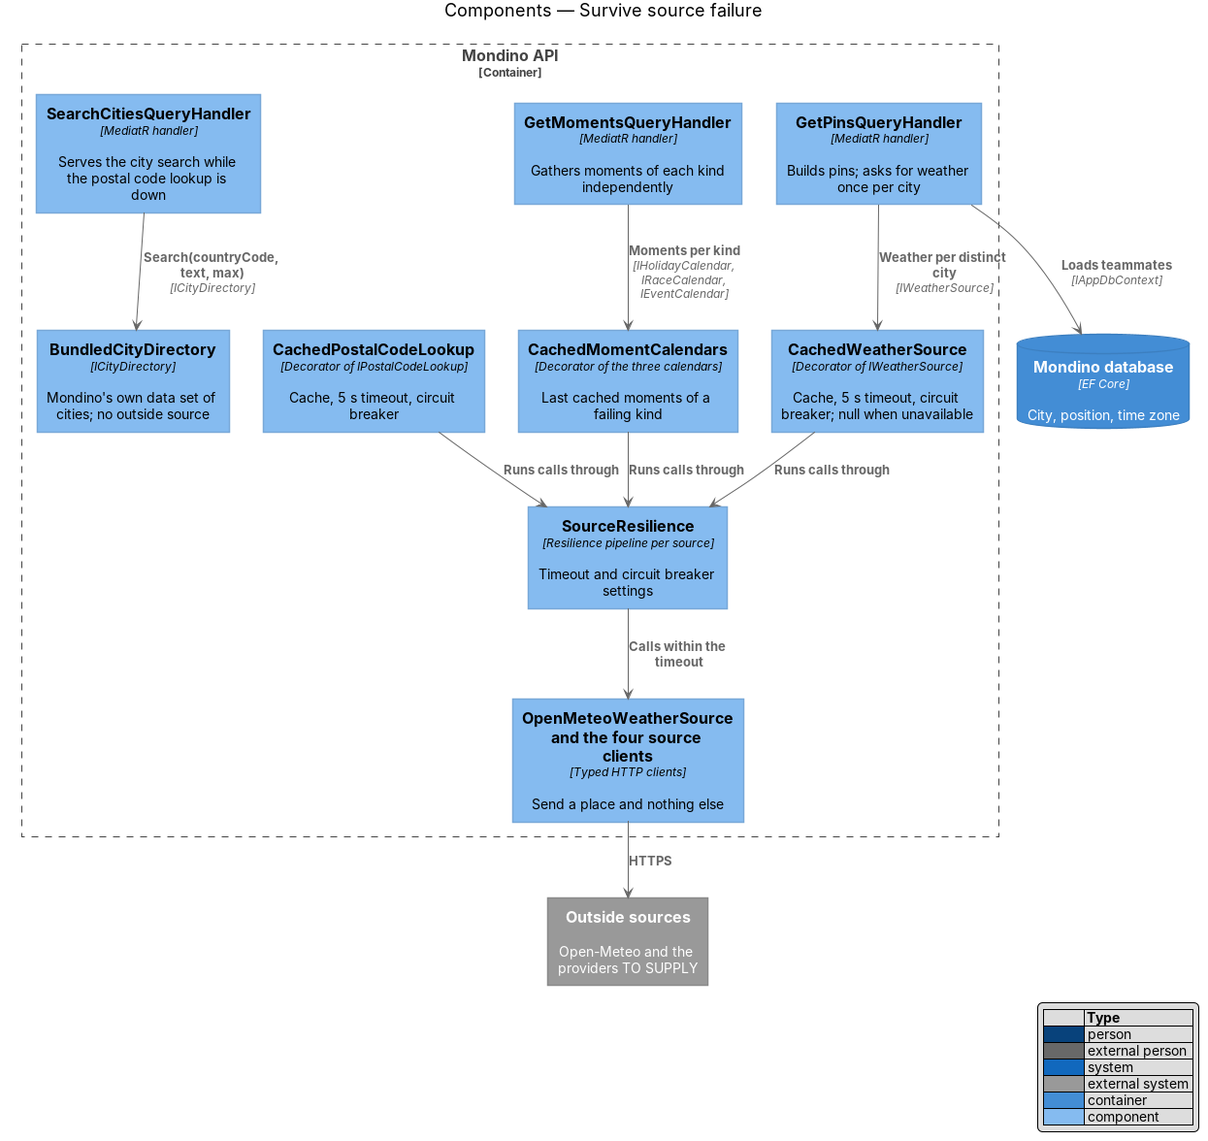
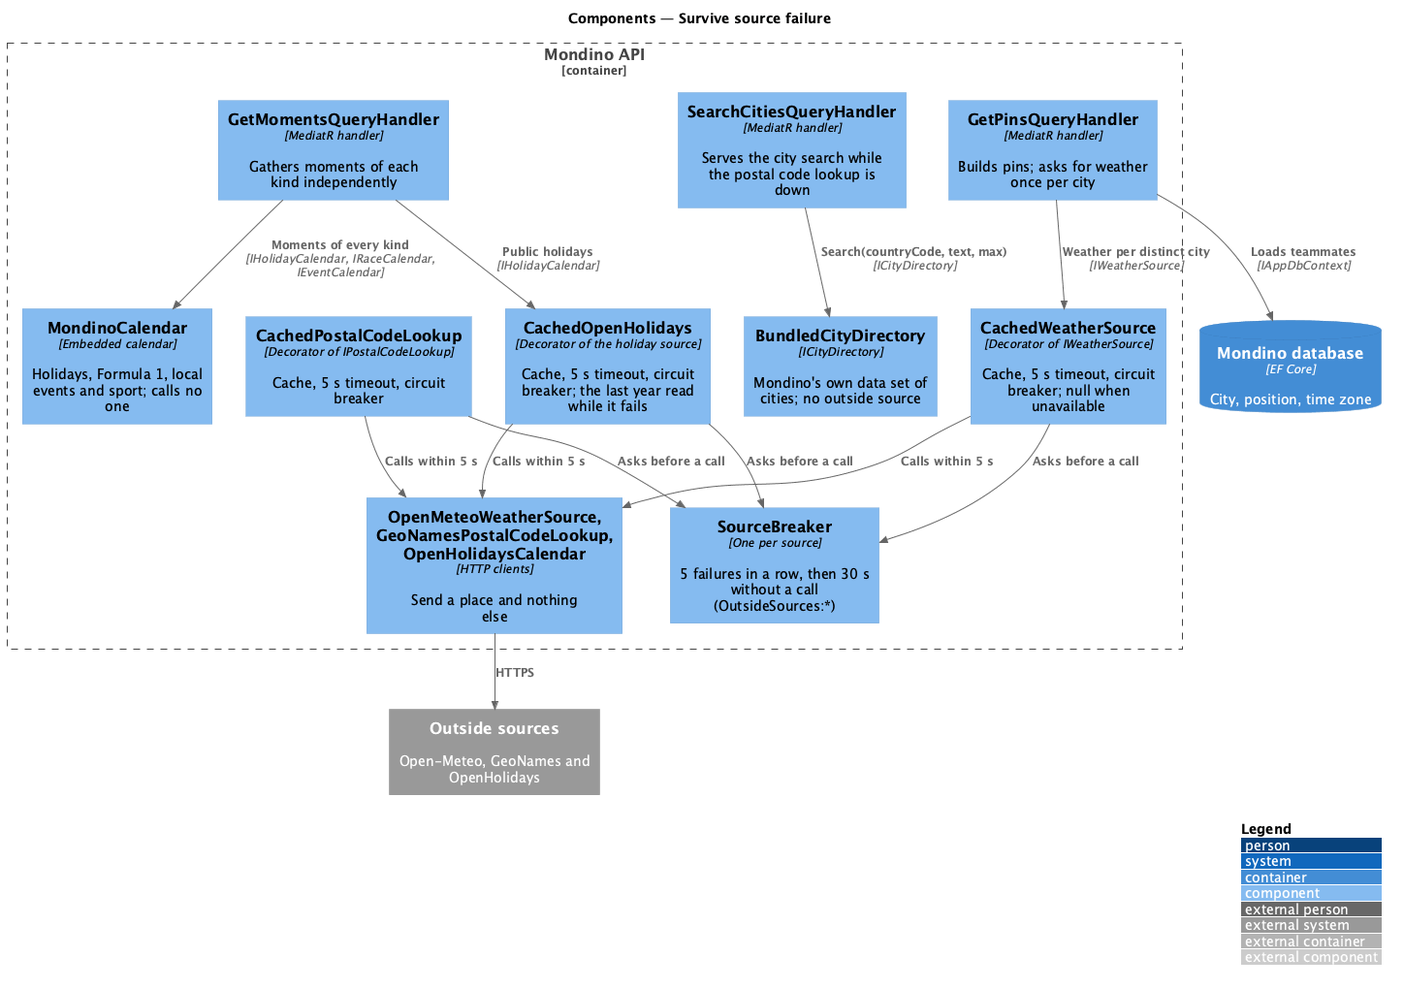
Decide the breaker, older answers and one deadline for outside sources
ADR 0026 makes the breaker one class with settings, gives weather up to
3 hours old and the last holidays read while a source fails, and shares a
6-second deadline between two sources asked in a row. The design, its
diagrams, the shared contracts, ADRs 0015 and 0019 and the deployment
settings are brought in line with what is built.

Changed region(s): [[0.0, 0.0, 1.0, 0.8814], [0.8546, 0.8206, 1.0, 1.0], [0.641, 0.4559, 0.702, 0.4863]]

diff --git a/docs/detailed-designs/platform/survive-source-failure/README.md b/docs/detailed-designs/platform/survive-source-failure/README.md
@@ -16,67 +16,79 @@ teammate's name, their team or anything that identifies them.
 The terms used below:
 
 - **outside source** — service outside Mondino that the backend calls for postal codes, weather or calendars
-- **caching decorator** — class that implements an outside source's interface, wraps the real client, and adds a cache, a timeout and a circuit breaker
+- **caching decorator** — class that wraps an outside source's client and adds a cache, a timeout and a circuit breaker
 - **circuit breaker** — guard that stops calls to a source that keeps failing, for a short interval, before trying again
+- **source deadline** — one 6-second limit shared by the outside sources a request asks one after another
 - **place** — a country and postal code, or a position, or a country and year
 - **city directory** — data set of cities, with their positions and time zones, that the backend holds itself
 
-The providers of the postal code source, the holiday calendar source, the race calendar source
-the event source and the email source are `<TO SUPPLY>`.
+The postal code source is GeoNames (ADR 0006), the weather source Open-Meteo (ADR 0015), the
+holiday source OpenHolidays beside Mondino's own calendar, which also holds Formula 1, local
+events and sport (ADR 0019), and the email source Postmark (ADR 0011). The breakers, the older
+answers given while a source fails and the source deadline are ADR 0026's.
 
 ## Description
 
 **Interfaces and clients.** Each outside source sits behind an interface in
 `Mondino.Application`: `IPostalCodeLookup`, `IWeatherSource`, `IHolidayCalendar`,
-`IRaceCalendar` and `IEventCalendar`. `Mondino.Infrastructure` holds one typed HTTP client per
-source: `PostalCodeLookupClient`, `OpenMeteoWeatherSource`, `HolidayCalendarClient`,
-`RaceCalendarClient` and `EventCalendarClient`. The `Mondino API` is the only caller; the
-browser calls no outside source (L2-050). `ISignInEmailSender`, behind which the email source
-sits, follows the same rule: `SignInEmailSender` calls it through `SourceResilience`, with the
-timeout and the circuit breaker and with no cache, since nothing it sends is an answer to keep
-(`sign-in`).
+`IRaceCalendar` and `IEventCalendar`. `Mondino.Infrastructure` holds one HTTP client per
+outside source: `GeoNamesPostalCodeLookup`, `OpenMeteoWeatherSource` and
+`OpenHolidaysCalendar`; `MondinoCalendar`, which answers `IRaceCalendar`, `IEventCalendar` and
+part of `IHolidayCalendar`, is embedded and calls nothing. The `Mondino API` is the only caller;
+the browser calls no outside source (L2-050). `ISignInEmailSender`, behind which the email
+source sits, follows the same rule: `PostmarkSignInEmailSender` calls it with the timeout and a
+`SourceBreaker` and with no cache, since nothing it sends is an answer to keep (`sign-in`).
 
-**Caching decorators.** Dependency injection registers each interface as its decorator, which
-wraps the client. Handlers see the interface only.
+**Caching decorators.** Dependency injection registers each interface as its decorator, or the
+calendar that uses it, which wraps the client. Handlers see the interface only.
 
 - **`CachedWeatherSource`** — decorates `IWeatherSource`. It rounds the position to two
   decimal places and uses the rounded position as the cache key, so two teammates in one city
-  share one entry and one call. An entry younger than 15 minutes is fresh and is returned
-  without a call. Otherwise it calls
-  `OpenMeteoWeatherSource` through `SourceResilience`. When the call gives no value, it
-  returns the cached `Weather` if that is under 3 hours old (`MaxAge`), and `null` otherwise.
-  It never returns a zero temperature in place of a missing one.
-- **`CachedPostalCodeLookup`** — decorates `IPostalCodeLookup`. The key is the normalised
-  `PostalCode`. A postal code's city does not change from hour to hour, so entries are kept
-  for a long interval, which is `<TO SUPPLY>`. When the source fails and no entry exists, the
+  share one entry and one call; concurrent reads of the city share the call in flight. An entry
+  younger than 15 minutes is fresh and is returned without a call. Otherwise, unless its
+  `SourceBreaker` is open, it calls `OpenMeteoWeatherSource` with a 5 s timeout. When there is
+  no value (an error, the timeout, or the breaker open), it returns the city's last good
+  `Weather` if that was read under 3 hours ago (`ServedFor`), and `null` otherwise. It never
+  returns a zero temperature in place of a missing one. A caller whose token is cancelled stops
+  waiting; the call goes on for the others.
+- **`CachedPostalCodeLookup`** — decorates `IPostalCodeLookup`. The key is the country and the
+  normalised `PostalCode`. A postal code's city does not change from hour to hour, so `Found` is
+  kept 30 days and `NotFound` 1 day (ADR 0006). When the source fails and no entry exists, the
   handler answers `postal_code_unavailable`, which is distinct from `postal_code_not_found`.
-- **`CachedMomentCalendars`** — decorates `IHolidayCalendar`, `IRaceCalendar` and
-  `IEventCalendar`. Each kind is fetched and cached on its own, keyed by its place (a country
-  and year, a year, or a city). When one calendar fails, the decorator returns the last cached
-  moments of that kind, and moments of the other kinds are unaffected.
+- **`CachedOpenHolidays`** — wraps `OpenHolidaysCalendar` for `HolidayCalendar`, which answers
+  `IHolidayCalendar` with Mondino's own holidays and the public ones. A country's year is fresh
+  for 24 hours. When the source fails, times out or its breaker is open, it gives the last year
+  it read, whatever its age; the year goes only for room. Formula 1, local events and sport come
+  from `MondinoCalendar` and never fail, so `MomentFinder` still gives every other kind, and a
+  calendar that throws gives nothing without failing the read.
 
-**`SourceResilience`** — one resilience pipeline per source, built with
-`Microsoft.Extensions.Resilience`. `ExecuteAsync` runs a call inside it and returns a
-`SourceAnswer<T>` with a `SourceOutcome` (`Success`, `Failure`, `Timeout`, `CircuitOpen`) and
-the value, if any. It does not throw for a failed source.
+**`SourceBreaker`** — the circuit breaker, one instance per source, held by its decorator
+(ADR 0026). It does not throw for a failed source.
 
-- **Timeout.** Each call is cancelled after 5 s.
-- **Circuit breaker.** After `FailuresBeforeBreak` failures the circuit opens for
-  `BreakDuration`, and calls return `CircuitOpen` at once without reaching the source. Both
-  values are `<TO SUPPLY>`.
-- **No queue.** The pipeline does not retry and does not queue. Calls to one source run with a
-  bounded concurrency, which is `<TO SUPPLY>`.
+- **Timeout.** Each call is cancelled after 5 s, and counts as a failure.
+- **Circuit breaker.** After `FailuresToOpen` failures in a row the breaker opens for
+  `BreakerOpenFor`, and the decorator answers at once without reaching the source. The values
+  are the settings `OutsideSources:FailuresToOpen` (5) and `OutsideSources:BreakerOpenFor`
+  (30 s); one success closes the count.
+- **No queue.** No call is retried and none is queued. One call per place is in flight at a
+  time, shared by every read of that place, and none while the breaker is open, so calls in
+  flight are bounded by the distinct places being read, each ending within 5 s.
 
-Time is read from `TimeProvider`, so tests advance a `FakeTimeProvider` and never sleep. The
-cache is `IMemoryCache` with a size limit; a cache shared between instances of the API depends
-on the hosting platform and is `<TO SUPPLY>`.
+**`SourceDeadline`** — a request that asks two sources one after another (the postal code
+lookup, then the weather at the city found: on Join, Create Team, a teammate's own lookup and
+saving a new location) starts one 6 s deadline before the first and passes it to the second,
+which waits only what is left. When it runs out the answer has no weather.
+
+Time is read from `TimeProvider`, so tests advance a `FakeTimeProvider` and never sleep. Each
+cache is held in memory by its decorator, with a bound on its entries; each instance of the API
+holds its own.
 
 **Joining while the postal code lookup is down (L2-049).**
 
 - **`ICityDirectory`** — interface in `Mondino.Application` over the city directory.
   `BundledCityDirectory` in `Mondino.Infrastructure` reads a data set shipped with the API, so
   it is not an outside source and cannot be down while the API answers. The data set is
-  `<TO SUPPLY>`.
+  `cities.tsv.gz`, embedded in the API (ADR 0006).
 - When a lookup on Join or Create Team is refused with `postal_code_unavailable`, the screen
   switches the postal code field off and shows "Your city" with "Postal code lookup is down
   right now, so pick your city instead. Your pin goes to its centre."
@@ -106,9 +118,12 @@ on the hosting platform and is `<TO SUPPLY>`.
   `WeatherState` is `Unavailable`; `WeatherState` is `NotShared` where the teammate does not
   share their weather and `Available` otherwise, so the browser can tell the two apart. The
   response succeeds in every case.
-- **`GetMomentsQueryHandler`** returns the moments `CachedMomentCalendars` has for each kind.
-- **A response waits at most 6 s on outside sources.** The calls for one request run
-  concurrently under one deadline of 5 s, so the request completes with what the backend has.
+- **`GetMomentsQueryHandler`** returns the moments `MomentFinder` finds for each city, from
+  every calendar at once; a calendar that fails gives its last cached moments or none, and the
+  other kinds are still given.
+- **A response waits at most 6 s on outside sources.** The calls for one request to one source
+  run concurrently, each within 5 s, and two sources asked one after another share the 6 s
+  `SourceDeadline`, so the request completes with what the backend has.
 - **The web app shows what it has.** Local time, status, offset and overlap are worked out in
   the browser from the pin's time zone and the clock, so they need no outside source. Where a
   pin's `weatherState` is `Unavailable`, `PinLabel` leaves the weather out, and `TeammatePanel`
@@ -161,9 +176,8 @@ on the hosting platform and is `<TO SUPPLY>`.
 |--------|---------|
 | Postal code source | country and postal code |
 | Open-Meteo | the city's position, rounded to two decimal places |
-| Holiday calendar source | country and year |
-| Race calendar source | year |
-| Event source | the city's place; the exact parameters depend on the provider, `<TO SUPPLY>` |
+| Holiday source (OpenHolidays) | country and year |
+| Mondino's own calendar (races, events, sport) | nothing: it is embedded and calls no one |
 | Email source | the address a sign-in link is sent to, and the link; no name, no team and no city |
 
 Each client's method takes only those values, so a name, a team, a teammate id or a session is
@@ -203,25 +217,26 @@ source once stored.
 ### Components
 
 `GetPinsQueryHandler` and `GetMomentsQueryHandler` reach the sources through the caching
-decorators. Each decorator runs its calls through `SourceResilience`, which calls the typed
-clients within the timeout.
+decorators. Each decorator asks its `SourceBreaker` before a call and calls its client within the
+timeout.
 
 ![C4 component view for surviving source failure](diagrams/c4-component.png)
 
 ### Class structure
 
 `CachedWeatherSource` and `OpenMeteoWeatherSource` both implement `IWeatherSource`, and the
-decorator wraps the client; `CachedPostalCodeLookup` and `PostalCodeLookupClient` relate the
-same way. Each decorator depends on `SourceResilience`, which returns a `SourceAnswer<T>` with
-a `SourceOutcome`. `PinDto.Weather` is nullable, and `PinDto.WeatherState` says why.
+decorator wraps the client; `CachedPostalCodeLookup` wraps `GeoNamesPostalCodeLookup`, and
+`CachedOpenHolidays` wraps `OpenHolidaysCalendar` for `HolidayCalendar`. Each decorator, and
+`PostmarkSignInEmailSender`, holds a `SourceBreaker`. `PinDto.Weather` is nullable, and
+`PinDto.WeatherState` says why.
 
 ![Class diagram for surviving source failure](diagrams/class-structure.png)
 
 ### Behaviour — read pins while the weather source is failing
 
 `GetPinsQueryHandler` asks for weather once per distinct city (L2-050).
-`CachedWeatherSource` returns a fresh entry when it has one. Otherwise `SourceResilience`
-calls Open-Meteo with a 5 s timeout, or does not call it while the circuit is open. With no
+`CachedWeatherSource` returns a fresh entry when it has one. Otherwise it calls Open-Meteo
+with a 5 s timeout, or does not call it while its `SourceBreaker` is open. With no
 value, the decorator gives the cached weather when it is under 3 hours old, and `null`
 otherwise, which the handler marks `Unavailable`. The response succeeds, and each pin shows its local time and status; the panel
 and the Team row say the weather is unavailable in its place (L2-049).

diff --git a/docs/adr/0026-one-breaker-for-every-outside-source.md b/docs/adr/0026-one-breaker-for-every-outside-source.md
@@ -1,0 +1,77 @@
+# 0026: Every outside source has one kind of breaker, an older answer is given while it fails, and two sources in a row share one 6-second deadline
+
+**Status:** Accepted (journey 26, Survive a source failure). Completes what
+[ADR 0015](0015-weather-source.md) and [ADR 0019](0019-moment-calendars.md) left to this journey;
+keeps the values [ADR 0006](0006-postal-code-source.md) and [ADR 0011](0011-signing-in-with-an-emailed-link.md)
+chose, as settings.
+
+## Context
+
+L2-049 asks that a failing or slow outside source costs only what depends on it: a 5-second
+timeout, a cache, a pause after repeated failures with no unbounded queue, weather up to 3 hours
+old given while the weather source fails, the last cached moments of a failing calendar, and no
+response to a browser waiting longer than 6 seconds on outside sources. `survive-source-failure`
+left the breaker's threshold and pause `<TO SUPPLY>` and drew a `SourceResilience` pipeline built
+with `Microsoft.Extensions.Resilience`. What was built before this journey is different: the
+postal code source (ADR 0006), the holiday source (ADR 0019) and the email source (ADR 0011) each
+hold a hand-written breaker (5 failures in a row, then 30 seconds without a call), the weather
+source (ADR 0015) has none, and the decorators read `TimeProvider`, which the tests advance.
+The lookup on Join and Create Team, a teammate's own lookup and saving a new location ask the
+postal code source and then the weather source, one after the other: 5 seconds each, 10 in all.
+
+## Decision
+
+- **One breaker, `SourceBreaker`, for every outside source.** Each source's decorator holds its
+  own instance: `CachedPostalCodeLookup`, `CachedWeatherSource`, `CachedOpenHolidays` and
+  `PostmarkSignInEmailSender`. After `FailuresToOpen` failures in a row (an error, an answer that
+  is not usable, or no answer in 5 seconds) it opens for `BreakerOpenFor`, and the source is not
+  called until then; one success closes the count. Both values are settings,
+  `OutsideSources:FailuresToOpen` (5) and `OutsideSources:BreakerOpenFor` (00:00:30), shared by
+  every source: the values the three breakers already had, so nothing changes for them. Five
+  keeps a stray failure from stopping a source, and one failed read of a team in more than five
+  cities opens it; thirty seconds is short against the 15-minute refresh, so a source back within
+  the minute is asked again at the next read.
+- **No queue.** No source is retried, and one call per place is in flight at a time: concurrent
+  reads of one city's weather, or one country's year of holidays, share one call. While a breaker
+  is open nothing is called. Calls in flight are then bounded by the distinct places of the
+  requests being served, each ending within 5 seconds; there is no further concurrency limit.
+- **Weather up to 3 hours old while the source fails.** `CachedWeatherSource` keeps each city's
+  last good answer beside its 15-minute fresh entry. When a call fails, times out or is not made
+  because the breaker is open, the last good answer is given if it was read under 3 hours ago
+  (`ServedFor`), as `Available` with its own `observedAt`; otherwise there is none, and the pin is
+  `Unavailable`. A city whose last answer is older than 3 hours and not fresh is the first to go
+  when the 10,000 cities are full.
+- **The last year of holidays while the holiday source fails.** `CachedOpenHolidays` keeps a
+  country's year after its 24 hours and gives it whenever a call fails, times out or is not made,
+  whatever its age: a year's public holidays rarely change. Entries go only for room, oldest
+  read first, at most 1,000. Formula 1, local events and sport come from Mondino's own calendar
+  (ADR 0019) and never fail.
+- **Two sources in a row share one 6-second deadline.** `LookUpPostalCodeQueryHandler` and
+  `UpdateProfileCommandHandler` start `SourceDeadline` (6 seconds, by `TimeProvider`) before the
+  postal code lookup and pass it to the weather source after it, so the weather waits only what
+  is left; when it runs out, the answer is given without weather. `CachedWeatherSource` stops a
+  caller's wait when that caller's token is cancelled, and leaves the shared call running for
+  the others. A read that asks one source, or several at once (the pins' weather, the moments'
+  holidays), is already under 5 seconds.
+
+## Settings
+
+| Setting | Meaning | Default |
+|---|---|---|
+| `OutsideSources:FailuresToOpen` | Failures in a row after which a source's breaker opens. | `5` |
+| `OutsideSources:BreakerOpenFor` | How long an open breaker leaves its source alone. | `00:00:30` |
+
+## Consequences
+
+- The four breakers behave as before; the weather source gains one, and the hand-written copies
+  become one class with one test of its own through each source.
+- An answer given from the older cache is not marked as old: a pin shows weather up to 3 hours
+  old as it would a fresh one, with its observation time. No mock draws an "as of" for it.
+- The deadline is per request. A request that asks one source and then reads the database is not
+  bounded by it; none does today.
+- Rejected: `Microsoft.Extensions.Resilience` pipelines, as the design drew. Its breaker samples
+  failures over a window rather than in a row, its timeout reads `TimeProvider` only through its
+  own options, and it would replace four tested decorators for no behaviour L2-049 asks. The
+  design is brought in line with `SourceBreaker`.
+- Rejected: one breaker shared by every source. A failing weather source would stop postal code
+  lookups.

diff --git a/docs/deployment/README.md b/docs/deployment/README.md
@@ -130,6 +130,8 @@ Burstable `Standard_B1ms`, 32 GiB, backups kept 7 days).
 | `WeatherSource__BaseAddress` | `https://api.open-meteo.com/` (the default), or `https://customer-api.open-meteo.com/` with a commercial subscription | where the pins' weather is read from; Open-Meteo learns only a city's position, rounded (ADR [0015](../adr/0015-weather-source.md)) |
 | `WeatherSource__ApiKey` | the Open-Meteo subscription's key, as an App Service setting or a Key Vault reference; none for the free API | the free API is for non-commercial use; without the key a commercial deployment must not call it (ADR [0015](../adr/0015-weather-source.md)) |
 | `HolidaySource__BaseAddress` | `https://openholidaysapi.org/` (the default) | where public holidays are read from; OpenHolidays learns only a country and a year. Formula 1, local events and sport come from Mondino's own calendar, built in, with no setting (ADR [0019](../adr/0019-moment-calendars.md)) |
+| `OutsideSources__FailuresToOpen` | `5` (the default) | after this many failures in a row an outside source (postal codes, weather, holidays, email) is left alone; each source counts its own (ADR [0026](../adr/0026-one-breaker-for-every-outside-source.md)) |
+| `OutsideSources__BreakerOpenFor` | `00:00:30` (the default) | how long a source whose breaker opened is left alone before it is asked again; meanwhile pins keep their local time, weather up to 3 hours old is given and the last holidays read are kept (ADR [0026](../adr/0026-one-breaker-for-every-outside-source.md)) |
 
 `EmailProtection__Key` and `PostalCodeSource__Username` are required: the deploy workflow checks
 that both are set on the App Service (by name; it never reads a value) and refuses to deploy

diff --git a/docs/detailed-designs/README.md b/docs/detailed-designs/README.md
@@ -150,7 +150,9 @@ Every L2 requirement, L2-001 to L2-057, is realised by exactly one feature.
   (ADR 0019); a failing calendar never fails the read.
 - `IWeatherSource.GetCurrentAsync(position)` answers a `Weather` or nothing; nothing is never
   shown as zero. Every call to an outside source times out after 5 s, and weather is fresh for
-  15 minutes. Open-Meteo is given a city's position rounded to two decimal places and nothing
+  15 minutes. Each source has its own breaker (5 failures in a row, then 30 s without a call,
+  `OutsideSources:*`); while the weather fails a city's answer up to 3 hours old is given, and
+  while the holiday source fails its last year read (ADR 0026). Open-Meteo is given a city's position rounded to two decimal places and nothing
   else (ADR 0015). `WeatherDto.Condition` travels as the web app's word (`partly-cloudy`), and
   the temperature in °C only. `PostalCodeResultDto.Weather` is the weather at the city found.
 - The `globe` library depends on `api` only (ADR 0014). `GlobeView` reports where things are on
@@ -236,6 +238,5 @@ The designs mark these as `<TO SUPPLY>`:
   the mock's countdown ("9:42").
 - Where the attributions of Open-Meteo (CC BY 4.0, ADR 0015) and OpenHolidays (ODbL, ADR 0019)
   are shown; no mock draws them.
-- Numbers the requirements do not give: the circuit breaker's threshold,
-  the globe's turning rate, the rate limit on a teammate's own postal code
-  lookup.
+- Numbers the requirements do not give: the globe's turning rate, the rate limit on a
+  teammate's own postal code lookup. (The breaker's threshold and pause are settings, ADR 0026.)

diff --git a/docs/adr/README.md b/docs/adr/README.md
@@ -33,5 +33,6 @@ Playwright, WCAG) needs a record here that gives its reason.
 | [0023](0023-settings-kept-by-the-backend.md) | A teammate's settings are kept by the backend, and the browser keeps the display ones to draw the first screen | Accepted; extends 0020 |
 | [0024](0024-what-leaving-deletes.md) | Leaving deletes the teammate's row and their sign-in links, ends the session by its absence, and keeps an empty team | Accepted; changes one line of 0011 |
 | [0025](0025-the-refresh-rides-the-shells-clock.md) | The teammate screens share one clock, the refresh rides its minute, and the pins carry the viewer's own settings | Accepted; changes how 0012 binds the clock; takes up an alternative 0023 rejected |
+| [0026](0026-one-breaker-for-every-outside-source.md) | Every outside source has one kind of breaker, an older answer is given while it fails, and two sources in a row share one 6-second deadline | Accepted; completes 0015 and 0019 |
 
 Not decided yet: nothing a journey has reached.

diff --git a/docs/adr/0019-moment-calendars.md b/docs/adr/0019-moment-calendars.md
@@ -43,8 +43,8 @@ holidays of Australia, Ghana, India, Japan, the United Arab Emirates and the Uni
 - **Timeout, cache and breaker** (`CachedOpenHolidays`): a call has 5 seconds (L2-049). A year of a
   country's holidays, with its subdivisions' names, is kept 24 hours, at most 1,000 entries; a
   failure is not kept. After 5 failures in a row the breaker opens for 30 seconds, and the source
-  gives nothing without a call. Serving an older answer while the source fails is journey 26's
-  (`survive-source-failure`).
+  gives nothing without a call. Since journey 26 it gives the last year it read instead, whatever
+  its age, while the source fails ([ADR 0026](0026-one-breaker-for-every-outside-source.md)).
 - **A failing calendar never fails a read.** `MomentFinder` takes nothing from a calendar that
   throws, times out or has its breaker open, and returns the other calendars' moments.
 - **A region is named in words**, the English name GeoNames gives a city's first-level division

diff --git a/docs/adr/0015-weather-source.md b/docs/adr/0015-weather-source.md
@@ -47,8 +47,9 @@ codes Open-Meteo reports have no code for wind.
   `SharesStatus`; off, the teammate's pin carries `WeatherState` `NotShared` and no weather for
   anyone else, and the source is not asked for their city on that teammate's account. The switch
   comes with journey 23.
-- **Not yet:** the circuit breaker and serving an answer up to 3 hours old while the source fails
-  come with journey 26 (`survive-source-failure`, L2-049).
+- **The breaker and an older answer** came with journey 26: after 5 failures in a row the source
+  is left alone for 30 seconds, and while it fails a city's answer up to 3 hours old is given
+  ([ADR 0026](0026-one-breaker-for-every-outside-source.md)).
 
 ## Settings
 
